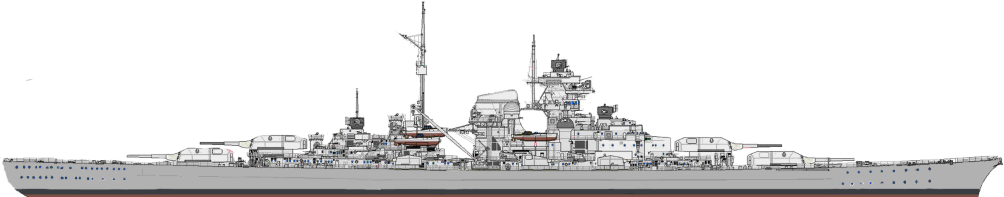
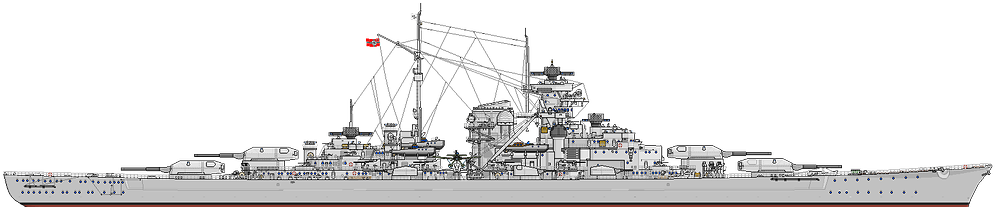
fix: Update GEM battleship bismarck AA guns

Changed region(s): [[0.0, 0.0609, 1.0, 1.0]]

diff --git a/.agents/skills/jutland-clean-ship-image/scripts/clean_ship_white_background.go b/.agents/skills/jutland-clean-ship-image/scripts/clean_ship_white_background.go
@@ -219,11 +219,23 @@ func componentInAnyBox(comp component, boxes []box) bool {
 	return false
 }
 
+func componentIntersectsAnyBox(comp component, boxes []box) bool {
+	for _, current := range boxes {
+		if comp.minX <= current.maxX && comp.maxX >= current.minX &&
+			comp.minY <= current.maxY && comp.maxY >= current.minY {
+			return true
+		}
+	}
+	return false
+}
+
 func removeLargeComponents(
 	img *image.NRGBA,
 	components []component,
 	minArea int,
+	maxArea int,
 	boxes []box,
+	excludeBoxes []box,
 	min uint8,
 	maxSpread uint8,
 ) (int, int) {
@@ -237,7 +249,13 @@ func removeLargeComponents(
 		if comp.area < minArea {
 			continue
 		}
+		if maxArea > 0 && comp.area > maxArea {
+			continue
+		}
 		if !componentInAnyBox(comp, boxes) {
+			continue
+		}
+		if componentIntersectsAnyBox(comp, excludeBoxes) {
 			continue
 		}
 		if !nearWhite(nrgbaAt(img, comp.seedX, comp.seedY), min, maxSpread) {
@@ -415,6 +433,13 @@ func main() {
 	)
 	var removeBoxes boxFlags
 	flag.Var(&removeBoxes, "remove-box", "limit enclosed component removal to a box minX,minY,maxX,maxY; repeatable")
+	var excludeBoxes boxFlags
+	flag.Var(&excludeBoxes, "exclude-box", "protect a box minX,minY,maxX,maxY from enclosed component removal; repeatable")
+	maxArea := flag.Int(
+		"max-area",
+		0,
+		"only remove enclosed near-white components with at most this many pixels; 0 disables the upper bound",
+	)
 	flag.Parse()
 
 	if *input == "" {
@@ -459,7 +484,9 @@ func main() {
 			img,
 			components,
 			*removeEnclosedMinArea,
+			*maxArea,
 			removeBoxes,
+			excludeBoxes,
 			uint8(*componentMin),
 			uint8(*maxSpread),
 		)

diff --git a/.agents/skills/jutland-clean-ship-image/SKILL.md b/.agents/skills/jutland-clean-ship-image/SKILL.md
@@ -39,8 +39,9 @@ description: Remove white or near-white backgrounds from ship drawings and PNG a
      `go run .agents/skills/jutland-clean-ship-image/scripts/clean_ship_white_background.go -input <image.png> -output <stem>.cleaned.png -remove-enclosed-min-area <pixels>`
      脚本默认直接覆盖输出文件；只有显式传入 `-backup-before-aggressive` 时才会生成 `<stem>.before-aggressive-cleanup.png` 备份。
    - 如需清理索具、吊臂等局部围住的小块背景，使用一个或多个 `-remove-box minX,minY,maxX,maxY` 限定人工确认区域，避免误删甲板标线、文字和飞机细节；脚本仍按连通组件删除，不按矩形逐像素清空。
-   - 如果栅栏/索具内仍有纯白斑点，可更激进地只清纯白小组件：提高 `-component-min` 到 `250` 左右，降低 `-remove-enclosed-min-area` 到 `1`，并必须配合精确 `-remove-box`。示例：
-     `go run .agents/skills/jutland-clean-ship-image/scripts/clean_ship_white_background.go -input <image.png> -output <stem>.cleaned.png -edge-min 235 -component-min 250 -remove-enclosed-min-area 1 -remove-box <minX,minY,maxX,maxY>`
+   - 如果栅栏/索具内仍有纯白斑点，可更激进地只清纯白小组件：提高 `-component-min` 到 `250` 左右，降低 `-remove-enclosed-min-area` 到 `1`，用 `-max-area` 只删除小口袋，并用 `-remove-box` / `-exclude-box` 限定与保护区域。示例：
+     `go run .agents/skills/jutland-clean-ship-image/scripts/clean_ship_white_background.go -input <image.png> -output <stem>.cleaned.png -component-min 250 -remove-enclosed-min-area 1 -max-area 150 -remove-box <minX,minY,maxX,maxY> -exclude-box <minX,minY,maxX,maxY>`
+   - `-max-area 0`（默认）表示不限制面积上限；`-exclude-box` 只跳过包围盒与保护框相交的组件，可重复传入，用于保住旗帜、飞机、比例尺和文字。
    - 使用纯白小组件清理时，框选区域要避开旗帜、比例尺、文字、飞机、高光和甲板白色标线；若这些内容位于同一区域，先缩小或拆分 `-remove-box`，不要全图执行。
    - 用户指出局部残留时，重新分析该区域的连通组件，不要逐像素猜测；发现误删则从最近备份恢复。
 
@@ -57,6 +58,15 @@ description: Remove white or near-white backgrounds from ship drawings and PNG a
 - 舰载机附近的白色组件必须按坐标区分。例如同一小片区域内，上方可能是吊臂后的背景，下方紧邻的较长横向组件可能是飞机机翼；先查看包围盒和深色裁剪预览，再用不接触机翼包围盒的微型框处理。
 - 脚本在执行封闭组件删除前打印 `residual_nearwhite_*` 统计，因此该统计不是最终输出的残留量。写出候选后必须对输出文件再执行一次 `-analyze-only`，确认侧视区域残留已收敛到需要保留的飞机、旗帜、文字或细线抗锯齿组件。
 - 最终必须检查整图深色预览和侧视图局部裁剪。白色画布预览无法可靠暴露栏杆后的小白块；深色背景下应能看到栏杆孔隙连续透出背景，同时飞机、旗帜、舰名、比例尺和浅灰结构仍完整。
+
+### 侧视图栏杆缝隙与缆绳间白块
+
+- 甲板栏杆（围栏）的白色格子是薄结构围住的封闭背景，外部泛洪清不掉；桅杆缆绳之间也常有小片纯白。它们通常是纯 `255`、面积很小（常见 2~40 像素，少数合并到约 100~150），并沿甲板线以约 5x2 的规律重复。
+- 先用 `-analyze-only` 列出这些小组件的包围盒，确认它们都落在栏杆带 / 缆绳区，并确认该视图的中部上层建筑在 `-max-area` 范围内没有需要保留的近白组件。Shipbucket 侧视图上层建筑多用 `213/228/244/247`，几乎不带纯 `255`，因此 `-component-min 250` 通常很安全；俯视图和艏艉正视图则可能整片接近纯白，不要纳入。
+- 然后用覆盖侧视图的 `-remove-box`，配合 `-exclude-box` 跳过飞机、旗帜、作者署名和比例尺。示例（按实际合图坐标调整）：
+  `go run .agents/skills/jutland-clean-ship-image/scripts/clean_ship_white_background.go -input <candidate.png> -output <candidate.png> -component-min 250 -remove-enclosed-min-area 1 -max-area 150 -remove-box 40,78,1760,470 -exclude-box 30,30,410,230 -exclude-box 628,98,718,152 -remove-box 40,1280,1760,1700 -exclude-box 1045,1260,1535,1470`
+- `-remove-box` 要求组件包围盒完全落入框内。栏杆带沿舰体有斜度，必要时用相邻多个框覆盖，而不是一个很大的矩形。
+- 完成后再次 `-analyze-only`，并用深色背景检查侧视图：栏杆孔隙应连续透出背景，缆绳之间无白斑，旗帜、飞机与浅灰结构完整。
 
 4. 可选：统一迷彩颜色。
    - 仅在用户明确要求时执行。不要全图换色，必须用一个或多个 `-recolor-box` 限定舰体或上层建筑区域。

diff --git a/.agents/skills/jutland-recolor-ship-image/SKILL.md b/.agents/skills/jutland-recolor-ship-image/SKILL.md
@@ -89,6 +89,14 @@ go run .agents/skills/jutland-recolor-ship-image/scripts/analyze_ship_palette.go
 
 同一块连续舱壁不应因为原迷彩的斜线或矩形边界突然改变灰阶。先统一材质大面，再从结构位置恢复少量阴影。
 
+### 统一俯视图炮塔顶部颜色
+
+- 俯视图里同批主炮塔可能一部分是浅色顶、一部分是深灰顶；先统计深色顶的精确颜色和连通组件包围盒，再逐座框选处理。
+- 常见配色：深灰顶 `125,125,125`，其斜面/装饰线 `105,105,105`；浅色顶 `228,228,228`，细节线 `193,193,193`。用 `-mode pixels` 在每座深色顶的 `-include-box` 内把 `125->228`、`105->193`，即可与浅色顶统一。
+- 框选要完整覆盖炮塔顶面及其内部细节线，但不要延伸到旁边甲板、副炮或炮管，避免连带改色。
+- 不要全局替换 `125`/`105`：同色还用于侧舷副炮、平台和设备阴影。改完放大对比同型炮塔确认一致。
+- 侧舷副炮等小型炮座若统一为深灰顶，要先确认这是整批一致的设计，还是与主炮塔不一致的残留，再决定是否改；不要默认把深灰顶一律改浅。
+
 对于只包含一种材质的区域，可按精确 RGB 直接修改像素：
 
 ```bash
